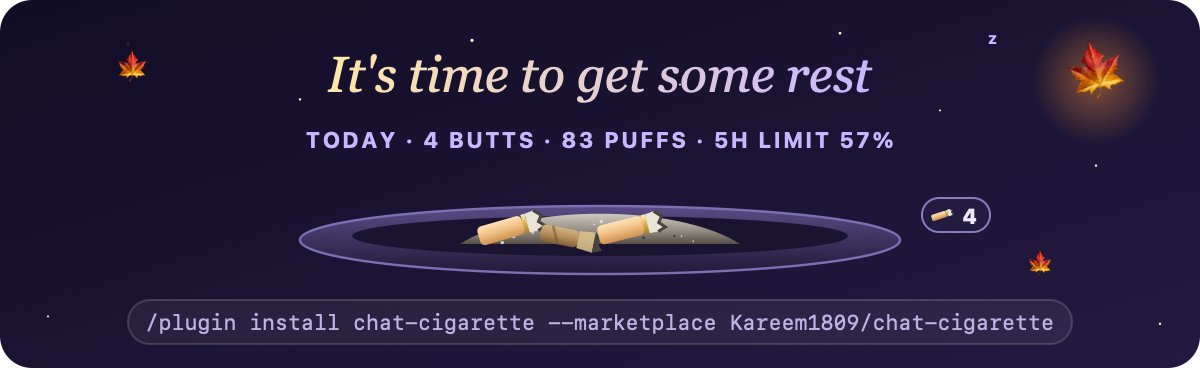
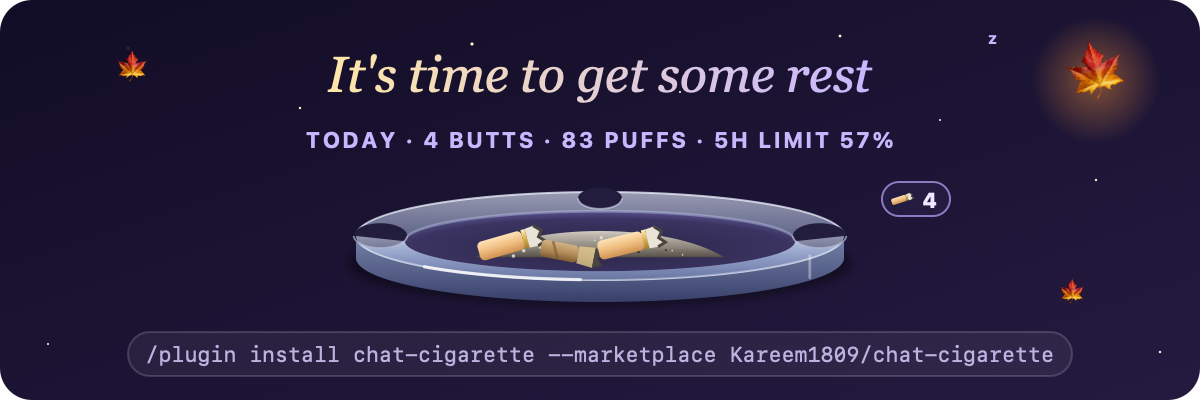
A real glass ashtray: wall, bowl, three rests, shine; contents sit inside it

diff --git a/hooks/art.ts b/hooks/art.ts
@@ -78,6 +78,9 @@ function defs(night: number): string {
 <linearGradient id="gold" x1="0" y1="0" x2="0" y2="1"><stop offset="0" stop-color="#fff0b0"/><stop offset=".5" stop-color="#d9b04f"/><stop offset="1" stop-color="#a77d22"/></linearGradient>
 <linearGradient id="night" x1="0" y1="0" x2="1" y2="0"><stop offset="0" stop-color="#ffe6a8"/><stop offset="1" stop-color="#c8b6ff"/></linearGradient>
 <linearGradient id="tray" x1="0" y1="0" x2="0" y2="1"><stop offset="0" stop-color="#5a4c86"/><stop offset="1" stop-color="#211a38"/></linearGradient>
+<linearGradient id="glassTop" x1="0" y1="0" x2="0" y2="1"><stop offset="0" stop-color="#e6eeff" stop-opacity=".62"/><stop offset=".55" stop-color="#9fb0d8" stop-opacity=".5"/><stop offset="1" stop-color="#6c7aa6" stop-opacity=".62"/></linearGradient>
+<linearGradient id="glassSide" x1="0" y1="0" x2="0" y2="1"><stop offset="0" stop-color="#93a5d2" stop-opacity=".75"/><stop offset="1" stop-color="#3b4470" stop-opacity=".9"/></linearGradient>
+<radialGradient id="bowl" cx=".5" cy=".62" r=".62"><stop offset="0" stop-color="#2b2448"/><stop offset=".8" stop-color="#3b3462"/><stop offset="1" stop-color="#58518a"/></radialGradient>
 <radialGradient id="glow"><stop offset="0" stop-color="#ffd27a"/><stop offset=".35" stop-color="#ff7a1a" stop-opacity=".85"/><stop offset="1" stop-color="#ff3d00" stop-opacity="0"/></radialGradient>
 <linearGradient id="flame" x1="0" y1="1" x2="0" y2="0"><stop offset="0" stop-color="#3b6cff"/><stop offset=".22" stop-color="#ffd84a"/><stop offset=".65" stop-color="#ff8a1a"/><stop offset="1" stop-color="#ff4a00" stop-opacity=".2"/></linearGradient>
 <radialGradient id="leafGlow"><stop offset="0" stop-color="#ff9a3c" stop-opacity=".45"/><stop offset="1" stop-color="#ff9a3c" stop-opacity="0"/></radialGradient>
@@ -290,23 +293,42 @@ function stubIn(shape: string, x: number, y: number): string {
 ${stubPuff(x + 16, y, 1.05)}</g>`
 }
 
+// مكتة زجاج حقيقية: حيطة بسماكة، جوف غامق، تلات مطارح للسيجارة عالحافة، ولمعة زجاج.
+// «under» قبل الرماد والأعقاب، «over» بعدهم (الحافة القدّامية بتغطّي شوي منهم = جوّا المكتة).
+function ashtrayGlass(cx: number, cy: number, R: number, r: number, h: number): { under: string; over: string; bowlY: number; bowlRy: number } {
+  const Ri = R * 0.8
+  const ri = r * 0.68
+  const iy = cy + r * 0.12
+  const rest = (x: number, y: number, w: number) =>
+    `<ellipse cx="${x.toFixed(1)}" cy="${y.toFixed(1)}" rx="${w}" ry="${(w * 0.48).toFixed(1)}" fill="#231d3d"/>` +
+    `<path d="M ${(x - w).toFixed(1)} ${y.toFixed(1)} A ${w} ${(w * 0.48).toFixed(1)} 0 0 0 ${(x + w).toFixed(1)} ${y.toFixed(1)}" fill="none" stroke="#dfe7ff" stroke-opacity=".55" stroke-width=".9"/>`
+  const under = `
+<ellipse cx="${cx}" cy="${(cy + h + 3).toFixed(1)}" rx="${R + 4}" ry="${(r * 0.95).toFixed(1)}" fill="#000" opacity=".38" filter="url(#blur)"/>
+<path d="M ${cx - R} ${cy} L ${cx - R} ${cy + h} A ${R} ${r} 0 0 0 ${cx + R} ${cy + h} L ${cx + R} ${cy} Z" fill="url(#glassSide)"/>
+<ellipse cx="${cx}" cy="${cy}" rx="${R}" ry="${r}" fill="url(#glassTop)" stroke="#eef3ff" stroke-opacity=".75" stroke-width="1"/>
+<ellipse cx="${cx}" cy="${iy.toFixed(1)}" rx="${Ri.toFixed(1)}" ry="${ri.toFixed(1)}" fill="url(#bowl)"/>
+<path d="M ${(cx - Ri).toFixed(1)} ${iy.toFixed(1)} A ${Ri.toFixed(1)} ${ri.toFixed(1)} 0 0 1 ${(cx + Ri).toFixed(1)} ${iy.toFixed(1)}" fill="none" stroke="#c3cff0" stroke-opacity=".4" stroke-width="1.4"/>
+${rest(cx - R * 0.9, cy, R * 0.11)}${rest(cx + R * 0.9, cy, R * 0.11)}${rest(cx, cy - r * 0.86, R * 0.09)}`
+  const over = `
+<path d="M ${cx - R} ${cy} A ${R} ${r} 0 0 0 ${cx + R} ${cy} L ${(cx + Ri).toFixed(1)} ${iy.toFixed(1)} A ${Ri.toFixed(1)} ${ri.toFixed(1)} 0 0 1 ${(cx - Ri).toFixed(1)} ${iy.toFixed(1)} Z" fill="url(#glassTop)" opacity=".92"/>
+<path d="M ${(cx - R * 0.72).toFixed(1)} ${(cy + r * 0.7).toFixed(1)} A ${R} ${r} 0 0 0 ${(cx - R * 0.08).toFixed(1)} ${(cy + r * 0.99).toFixed(1)}" fill="none" stroke="#ffffff" stroke-opacity=".8" stroke-width="1.6" stroke-linecap="round"/>
+<line x1="${(cx + R * 0.86).toFixed(1)}" y1="${(cy + r * 0.45).toFixed(1)}" x2="${(cx + R * 0.86).toFixed(1)}" y2="${(cy + r * 0.45 + h).toFixed(1)}" stroke="#ffffff" stroke-opacity=".35" stroke-width="1.4" stroke-linecap="round"/>`
+  return { under, over, bowlY: iy, bowlRy: ri }
+}
+
 // المكتة (المنفضة) بآخر السيجارة: الرماد فيها بيزيد مع كل سحبة، وأعقاب اليوم بتضل فيها.
 function ashtray(butts: readonly Style[], ash: number): string {
   const cx = 532
-  const cy = 82
+  const cy = 80
   const n = butts.length
   const shown = butts.slice(-5)
-  let out = `<g data-butts="${n}" data-ash="${ash.toFixed(2)}">
-<ellipse cx="${cx}" cy="${cy + 3}" rx="48" ry="11" fill="#000" opacity=".3" filter="url(#blur)"/>
-<ellipse cx="${cx}" cy="${cy}" rx="46" ry="12" fill="url(#tray)" stroke="#8a7cc0" stroke-width="1.2"/>
-<ellipse cx="${cx}" cy="${cy - 1.5}" rx="37" ry="7.5" fill="#1a1430"/>
-<rect x="${cx - 47}" y="${cy - 3.2}" width="9" height="4" rx="2" fill="#1a1430"/>
-<rect x="${cx + 38}" y="${cy - 3.2}" width="9" height="4" rx="2" fill="#1a1430"/>
-${ashHeap(cx - 2, cy + 1.5, 24, 10, ash)}`
+  const g = ashtrayGlass(cx, cy, 44, 13, 7)
+  let out = `<g data-butts="${n}" data-ash="${ash.toFixed(2)}">${g.under}
+${ashHeap(cx - 2, g.bowlY + 4, 22, 9, ash)}`
   shown.forEach((b, i) => {
-    out += buttShape(b, cx - 18 + i * 8.5, cy - 2 + (i % 2) * 2, -22 + i * 11, 0.82)
+    out += buttShape(b, cx - 18 + i * 8.5, g.bowlY + 1 + (i % 2) * 2, -22 + i * 11, 0.82)
   })
-  out += countBadge(cx + 36, cy - 20, n)
+  out += g.over + countBadge(cx + 38, cy - 22, n)
   return out + '</g>'
 }
 
@@ -325,18 +347,17 @@ function bigTray(butts: readonly Style[], animated: boolean): string {
   const shown = butts.slice(-12)
   const m = shown.length
   const spacing = Math.min(30, 230 / Math.max(1, m))
-  let out = `<g data-butts="${n}">
-<ellipse cx="300" cy="120" rx="150" ry="17" fill="url(#tray)" stroke="#7d6fb4" stroke-width="1.2"/>
-<ellipse cx="300" cy="118" rx="124" ry="10" fill="#1a1430"/>
-${ashHeap(300, 122, 70, 15, 1)}`
+  const g = ashtrayGlass(300, 118, 122, 22, 11)
+  let out = `<g data-butts="${n}">${g.under}
+${ashHeap(300, g.bowlY + 8, 62, 13, 1)}`
   shown.forEach((b, i) => {
     const x = 300 + (i - (m - 1) / 2) * spacing
-    const y = 114 + (i % 2 ? 5 : 0)
+    const y = g.bowlY + 1 + (i % 2 ? 5 : 0)
     const rot = (i % 2 ? 14 : -12) + (((i * 37) % 9) - 4)
     const shape = buttShape(b, x, y, rot, 1.35)
     out += animated && i === m - 1 ? stubIn(shape, x, y) : shape
   })
-  out += countBadge(478, 108, n)
+  out += g.over + countBadge(458, 100, n)
   return out + '</g>'
 }
 
@@ -439,7 +460,7 @@ ${ashtray(s.butts, f)}`
 
 // كرت المشاركة: «روح ارتاح»، أرقام اليوم، المنفضة بكل أعقاب اليوم، وسطر التركيب.
 function burnedOut(s: Scene): string {
-  const h = 184
+  const h = 200
   const dir = s.ln === 'en' ? '' : ' direction="rtl"'
   return (
     frame(h, 1) +
@@ -447,15 +468,15 @@ function burnedOut(s: Scene): string {
 <circle cx="548" cy="40" r="32" fill="url(#leafGlow)"/>
 ${leaf(548, 40, 30, 0, 5)}
 ${leaf(66, 34, 16, 1.6, 6.5)}
-${leaf(520, 132, 13, 3.1, 7)}
+${leaf(536, 146, 13, 3.1, 7)}
 <text x="508" y="30" font-family="${FONT}" font-size="11" font-weight="700" fill="#c8b6ff">z<animate attributeName="opacity" values="0;1;0" dur="2.4s" repeatCount="indefinite"/><animateTransform attributeName="transform" type="translate" values="0 6; -4 -6" dur="2.4s" repeatCount="indefinite"/></text>
 <text x="494" y="22" font-family="${FONT}" font-size="8" font-weight="700" fill="#c8b6ff">z<animate attributeName="opacity" values="0;1;0" dur="2.4s" begin="1.2s" repeatCount="indefinite"/><animateTransform attributeName="transform" type="translate" values="0 6; -4 -6" dur="2.4s" begin="1.2s" repeatCount="indefinite"/></text>
 <text x="300" y="46" text-anchor="middle" font-family="Georgia, 'Times New Roman', serif" font-style="italic" font-size="25" fill="url(#night)">${esc(REST_LINE.replace(/\s*🍁$/, ''))}</text>
 <text x="300" y="74" text-anchor="middle"${dir} font-family="${FONT}" font-size="11" font-weight="700" letter-spacing="${s.ln === 'en' ? 1.6 : 0}" fill="#c8b6ff">${esc(s.stats)}</text>
 ${bigTray(s.butts, s.animated)}
-<g filter="url(#blur)" stroke="#ddd6f3" fill="none" stroke-linecap="round">${wisp(318, 104, 0, 5, 1.6, 1)}</g>
-<rect x="64" y="150" width="472" height="22" rx="11" fill="#ffffff" fill-opacity=".06" stroke="#ffffff" stroke-opacity=".16"/>
-<text x="300" y="165" text-anchor="middle" font-family="${MONO}" font-size="10.5" fill="#bdb2e0">${esc(INSTALL)}</text>
+<g filter="url(#blur)" stroke="#ddd6f3" fill="none" stroke-linecap="round">${wisp(318, 108, 0, 5, 1.6, 1)}</g>
+<rect x="64" y="166" width="472" height="22" rx="11" fill="#ffffff" fill-opacity=".06" stroke="#ffffff" stroke-opacity=".16"/>
+<text x="300" y="181" text-anchor="middle" font-family="${MONO}" font-size="10.5" fill="#bdb2e0">${esc(INSTALL)}</text>
 </svg>`
   )
 }

diff --git a/README.md b/README.md
@@ -40,7 +40,7 @@ claude plugin update chat-cigarette@chat-cigarette
 | ⚠ تحذير الباكيت | شريط أبيض بإطار أسود متل الباكيت الحقيقي، والجملة بالنص ومثلث أحمر ⚠ لازق بكلمة التحذير. 10 تحذيرات بكل لغة جوّا الرسمة، وبيتبدّلوا **لحالهم** كل 5 ثواني («WARNING: Your manager can smell this commit») |
 | 💬 جملة جديدة | **50 جملة بكل لغة**: بالأول خفيفة، بالنص «قوم تحرّك»، بالآخر «جهّز حالك ترتاح». كل سيجارة بتبلّش من مكان جديد، عشان ما تزهق |
 | 🌆 السما | بتبلّش غروب وبتغمق لليل مع كل نَفَس |
-| 🧺 المكتة | مكتة (منفضة) بآخر السيجارة: كومة الرماد فيها بتكبر مع **كل سحبة**، وذرّات رماد بتوقع من الجمرة. وكل سيجارة بتخلص بتترك عقب بيضل لآخر اليوم (اليوم بيبلّش 5 الصبح) |
+| 🧺 المكتة | مكتة زجاج (منفضة) بآخر السيجارة، بتلات مطارح عالحافة: كومة الرماد فيها بتكبر مع **كل سحبة**، وذرّات رماد بتوقع من الجمرة. وكل سيجارة بتخلص بتترك عقب بيضل لآخر اليوم (اليوم بيبلّش 5 الصبح) |
 | 📸 كرت المشاركة | لما تخلص: «It's time to get some rest»، أرقام اليوم (أعقاب · نَفَسات · الحدّ)، كل أعقاب اليوم بالمنفضة، وسطر التركيب. كل صورة شاشة بتصير دعاية |
 | 🌿 الجوينت بيروق | من النَّفَس 14، كلود بيختم كل رد بسطر رايق. الشغل نفسه بيضل بنفس الدقة |
 | ⏳ حدّ الـ5 ساعات | `⏳ ━━━━━━──────── 42%  5-hour limit · resets in 2h 15m` |
